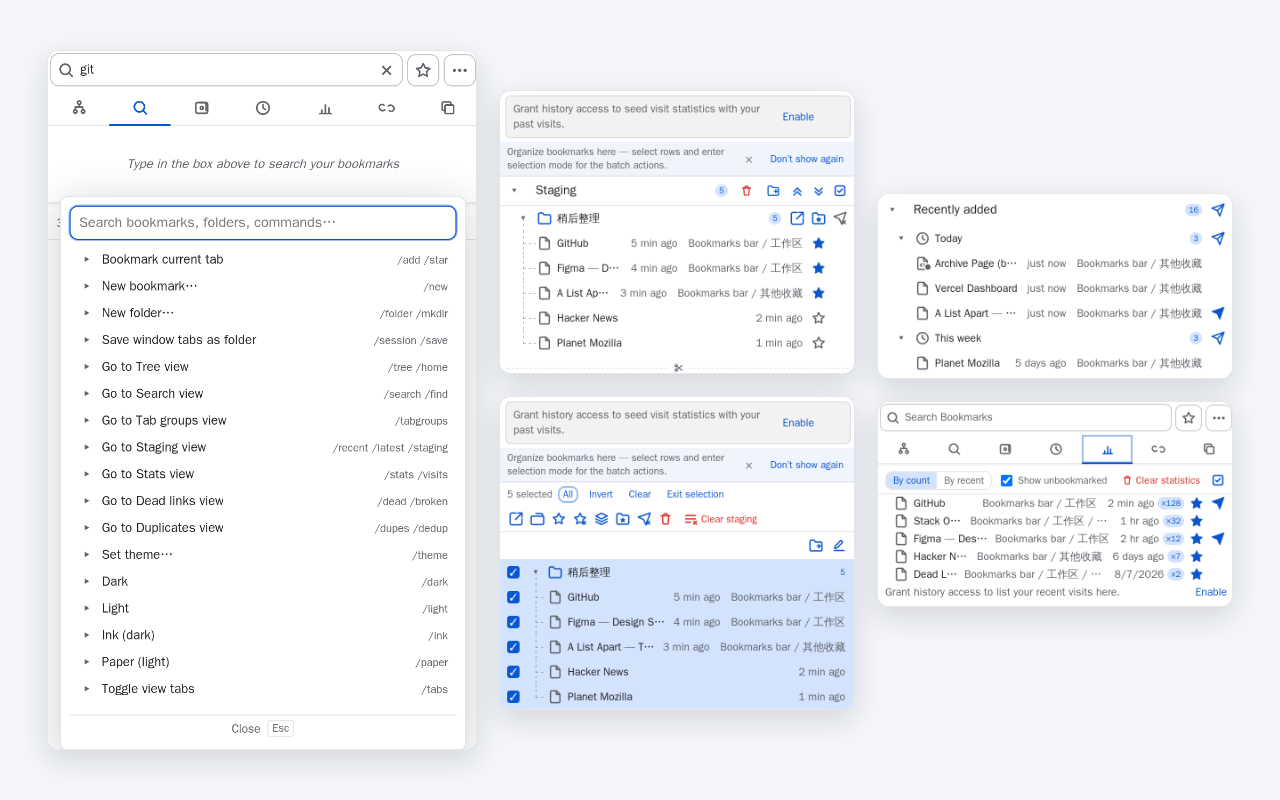
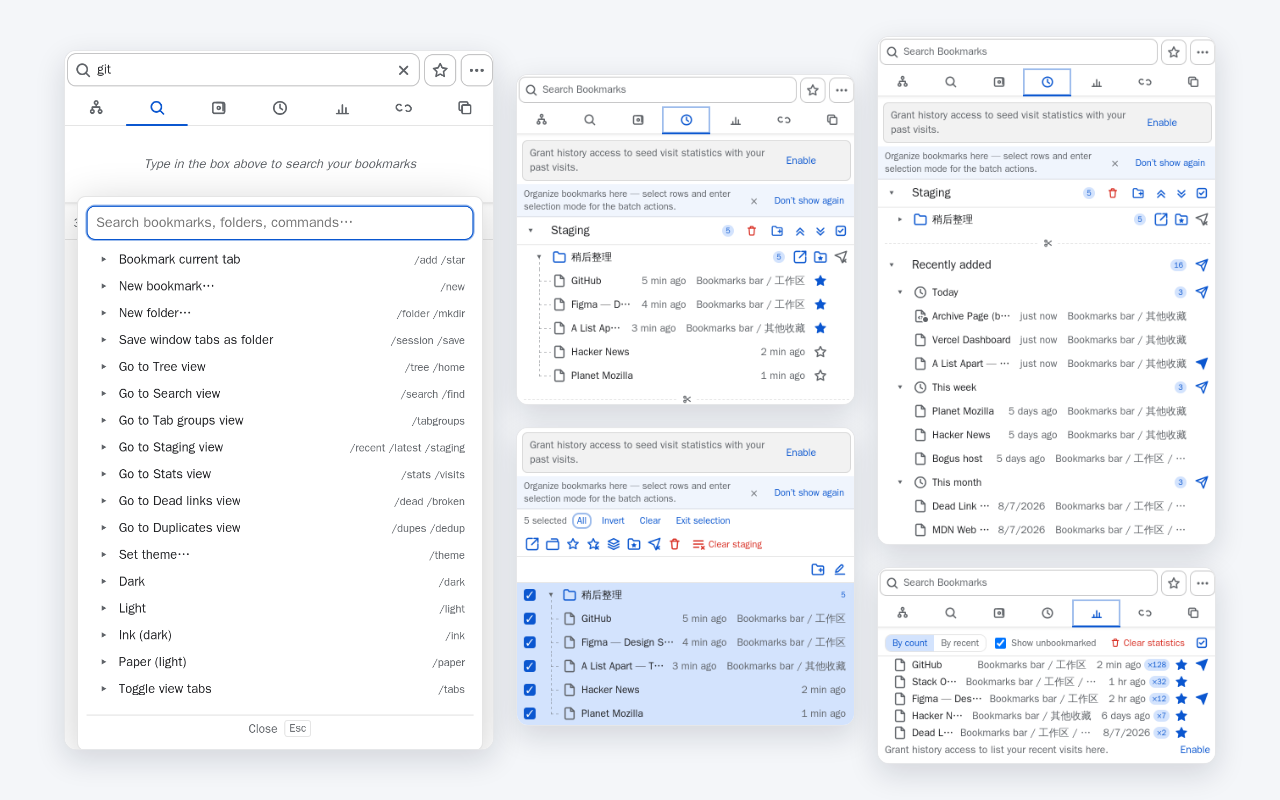
fix(store-assets): promo2 staging 两瓦片按反馈修正——①正常模式瓦片保留完整顶部(搜索栏+tab 条),底部以 #recent-head 定界只含分组区(bottomSel 新增);②最近区瓦片改为完整顶部画面 + storage 预折叠 staging 组后重载,只展开 Recently added 时间线;选择模式瓦片维持裁头;Docker NO ERRORS,assets promo2 重同步

diff --git a/scripts/screenshots/shots-store.js b/scripts/screenshots/shots-store.js
@@ -411,13 +411,37 @@ const SEED = `
         await page.close();
     }
 
-    // --- 3. staging regions (upper = groups, recent = timeline) + selection --
+    // --- 3. staging: full top (groups region) + folded-to-recent + selection -
     {
         const page = await openThemed('light');
         await activateView(page, 'recent');
         await sleep(900);
-        await shootTile(page, 'view-staging-upper', { top: 'tabs', bottomSel: '#recent-head' });
-        await shootTile(page, 'view-staging-recent', { top: 'tabs', topSel: '#recent-head', bottom: 'container' });
+        // Normal tile keeps the FULL top chrome (search bar + tabs) and stops
+        // at the recently-added section head — groups region only.
+        await shootTile(page, 'view-staging-upper', { bottomSel: '#recent-head' });
+        // Recent-region tile: same full top, but with the staging group
+        // FOLDED so only the recently-added timeline is expanded (per spec).
+        await page.evaluate(() => {
+            const raw = chrome.storage.local.get;
+            return new Promise(resolve => {
+                chrome.storage.local.get(['staging'], r => {
+                    const st = JSON.parse(r.staging || '{}');
+                    st.groups = (st.groups || []).map(g => ({ ...g, collapsed: true }));
+                    chrome.storage.local.set({ staging: JSON.stringify(st) }, resolve);
+                });
+            });
+        });
+        await page.reload({ waitUntil: 'domcontentloaded' });
+        await activateView(page, 'recent');
+        await sleep(1200);
+        const recentVisible = await page.evaluate(() => {
+            const head = document.getElementById('recent-head');
+            return head && !head.classList.contains('collapsed');
+        });
+        if (!recentVisible) errors.push('view-staging-recent: recent head not expanded');
+        await shootTile(page, 'view-staging-recent');
+        // selection: batch bar + ticked rows, header cropped off (the only
+        // tile type that loses the top chrome)
         await enterSelection(page, 'view-staging-sel');
         await shootTile(page, 'view-staging-sel', { top: 'tabs' });
         await page.close();
